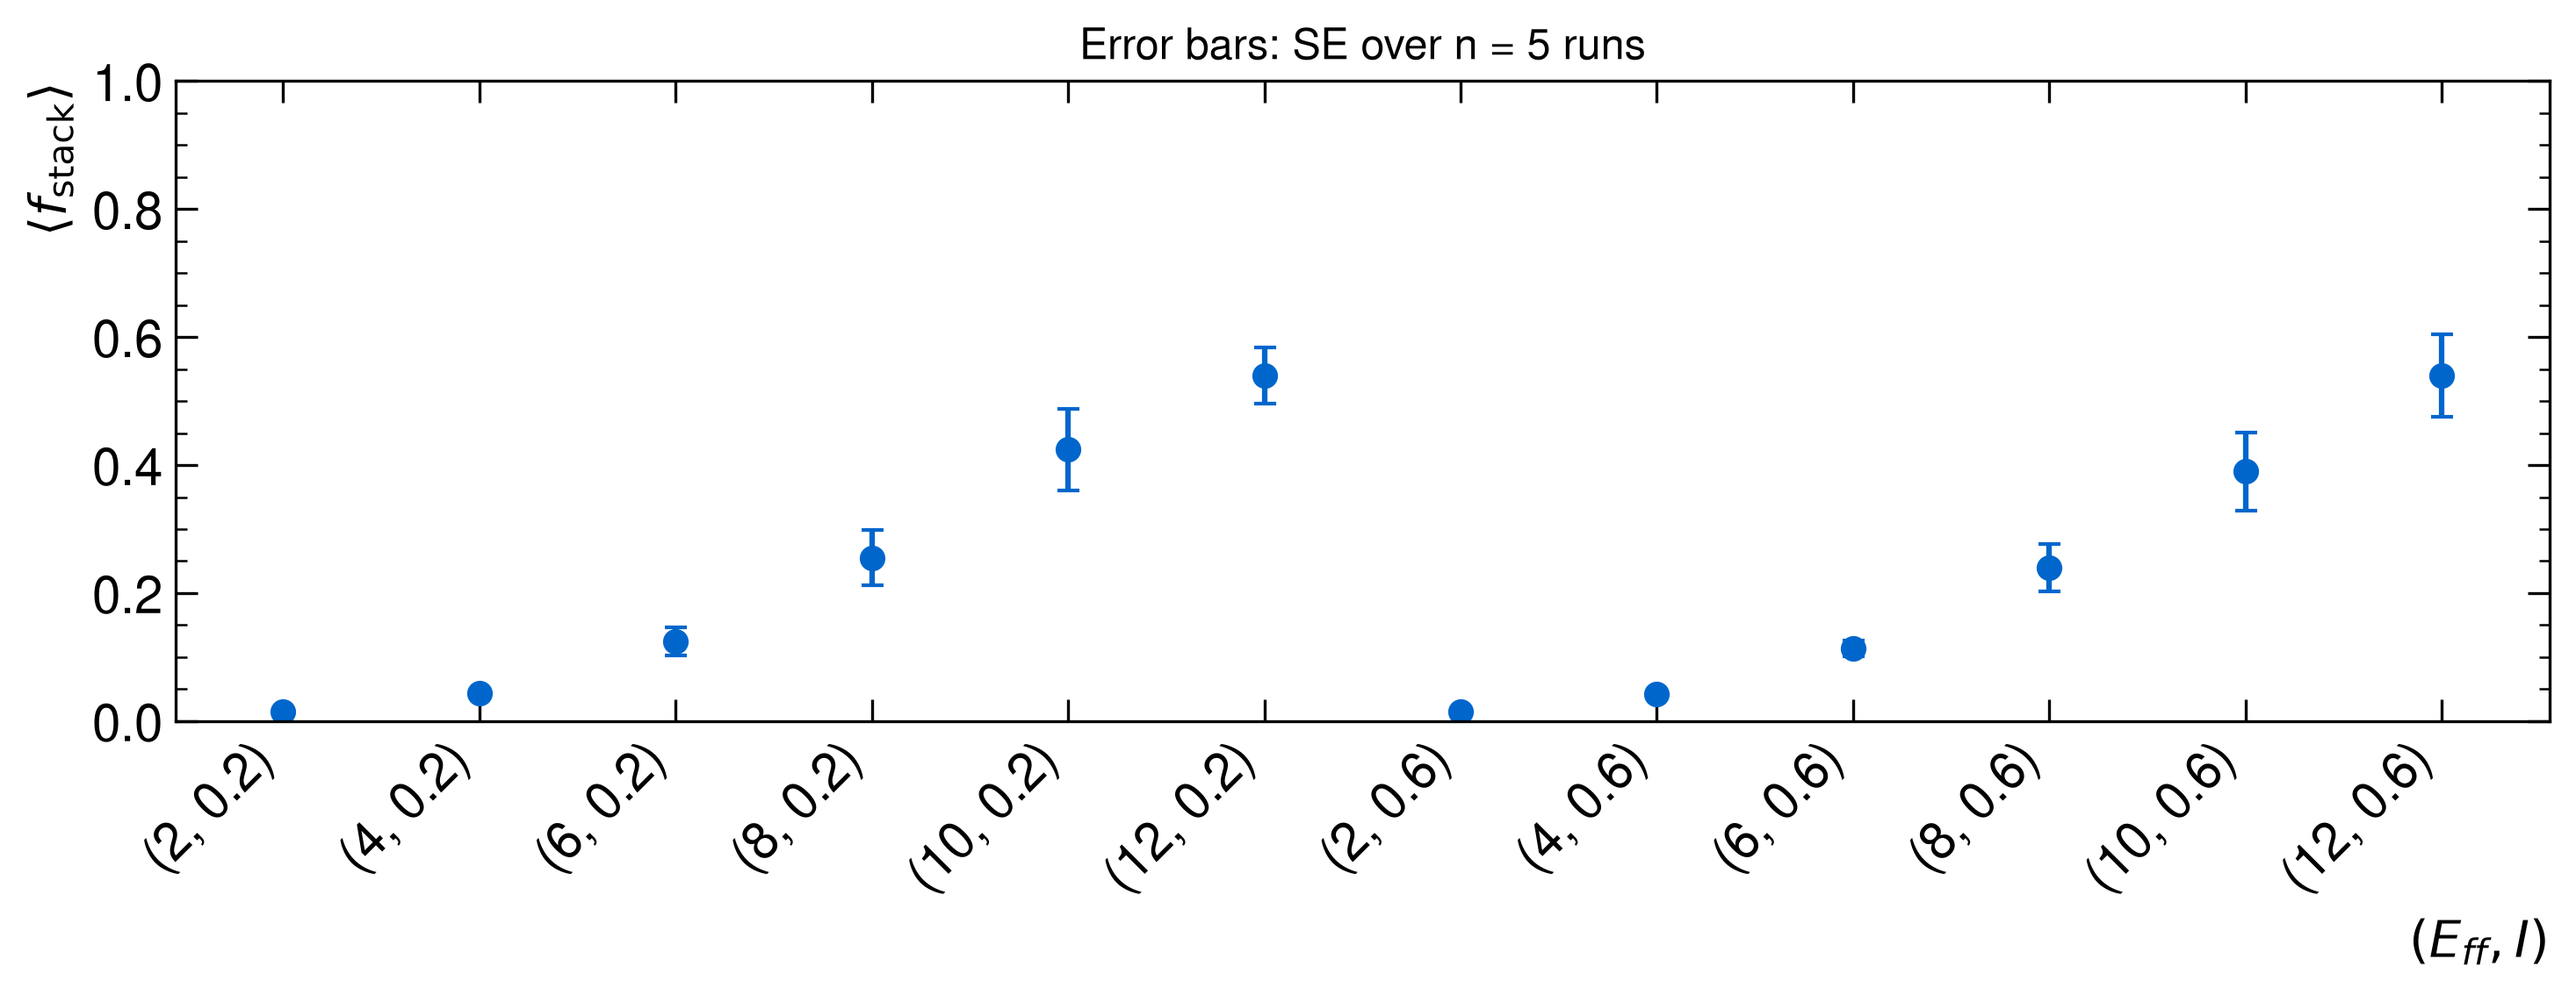
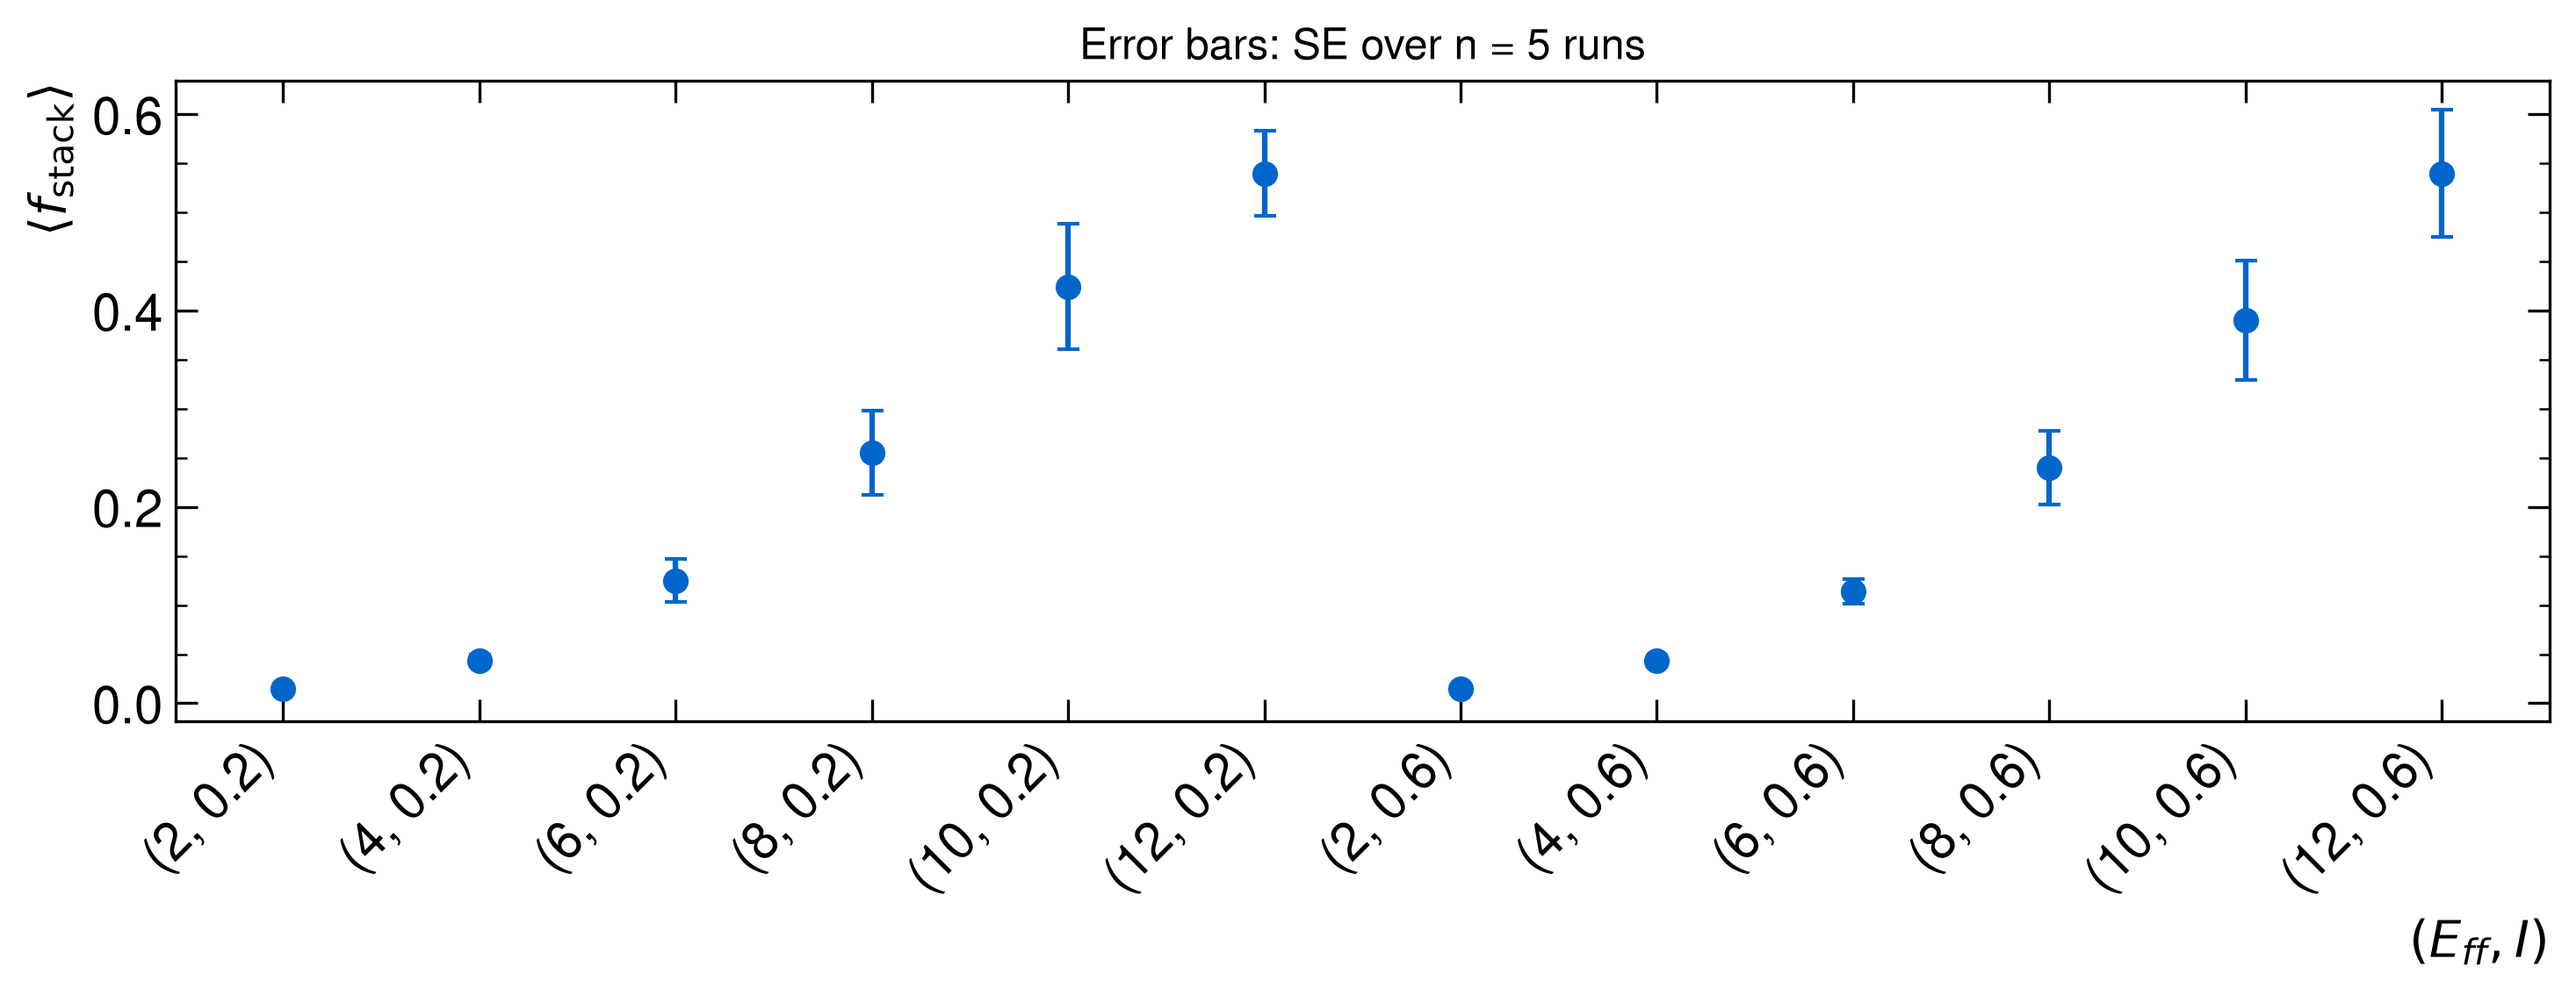
Remove plotter.py and old figures with outdated names

diff --git a/scripts/python/plot_stacking_fraction_per_energy.py b/scripts/python/plot_stacking_fraction_per_energy.py
@@ -14,7 +14,7 @@ import matplotlib.pyplot as plt
 import numpy as np
 
 from mphys.funcs import read_table
-from mphys.plotting import default_out, label, savefig, use_style
+from mphys.plotting import QUANTITIES, default_out, label, savefig, use_style
 
 
 def main():
@@ -64,9 +64,7 @@ def main():
     ax.set_xticklabels(ticks, rotation=45, ha="right")
     ax.tick_params(axis="x", which="minor", bottom=False, top=False)
     ax.set_xlabel(r"$(E_{ff}, I)$")
-    ax.set_ylabel(r"$\langle$" + label(args.column) + r"$\rangle$")
-    if args.column == "fraction":
-        ax.set_ylim(0, 1)
+    ax.set_ylabel(r"$\langle$" + label("fraction") + r"$\rangle$")
     n_text = f"{n.min():g}" if n.min() == n.max() else f"{n.min():g} to {n.max():g}"
     ax.set_title(f"Error bars: SE over n = {n_text} runs", fontsize="small")
     fig.tight_layout()
